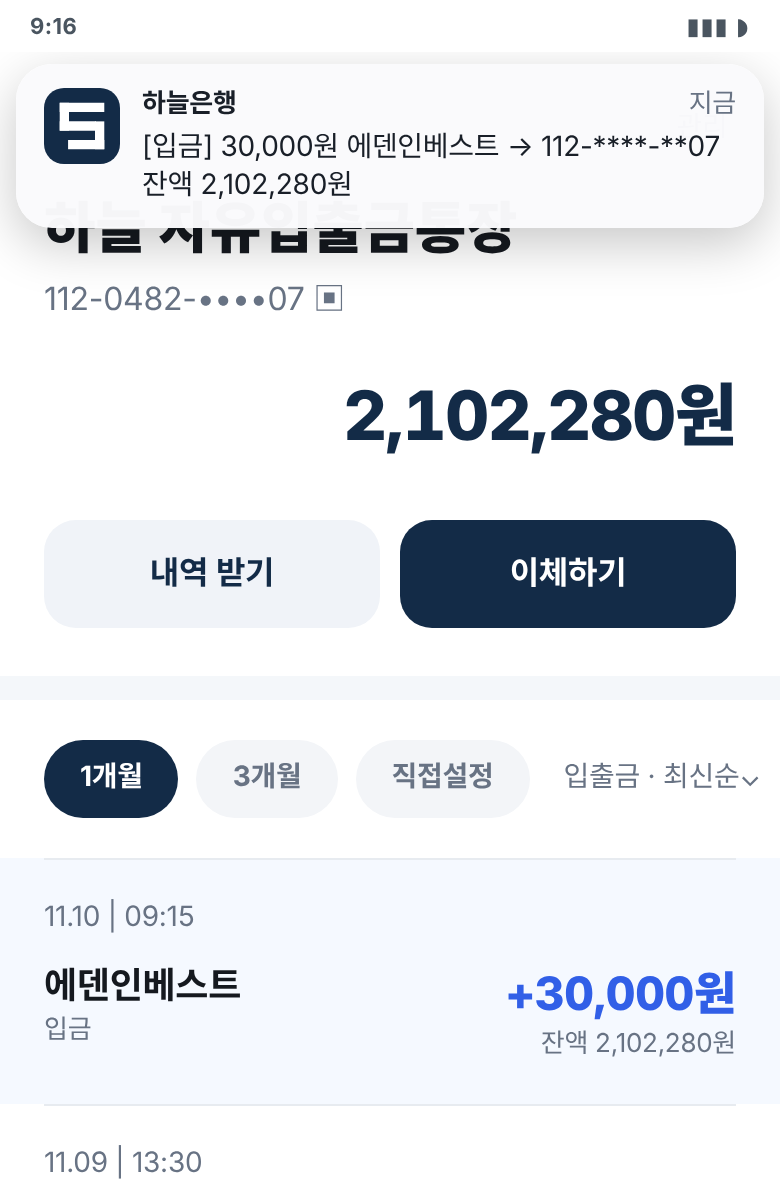
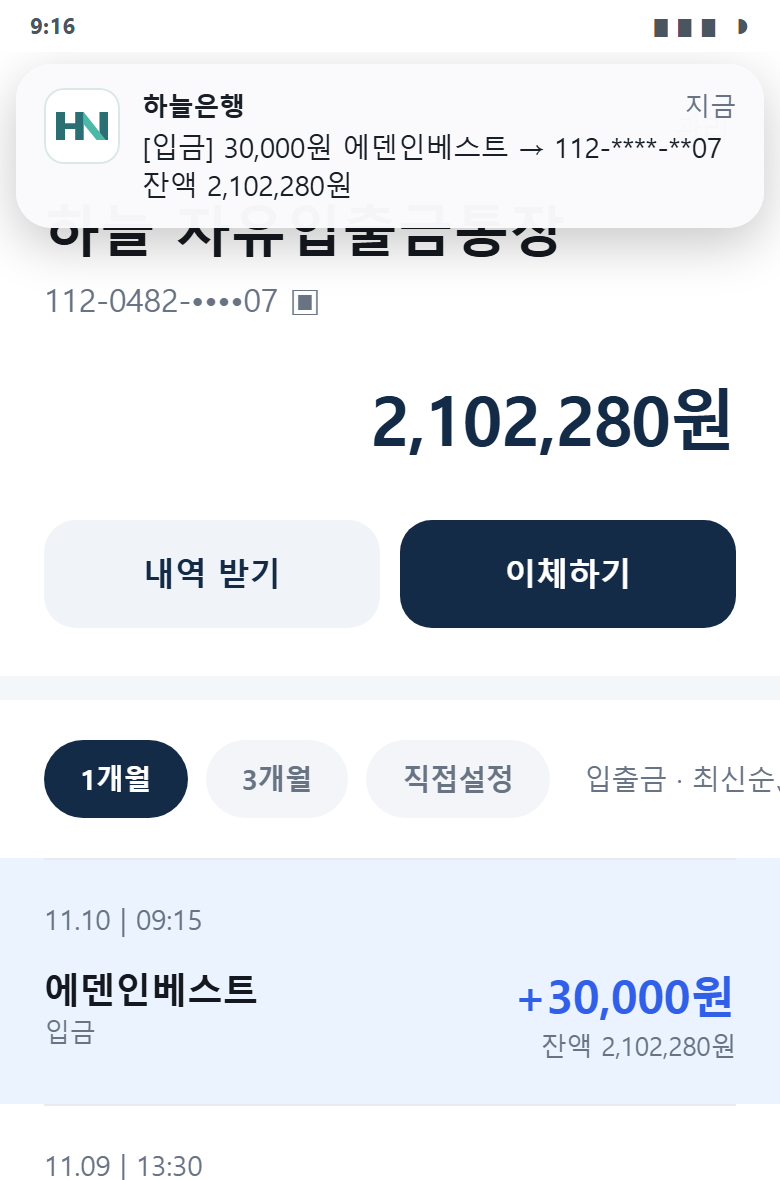
Apply art department Haneul Bank mark to web preview

diff --git a/apps/preview/bank.css b/apps/preview/bank.css
@@ -5,7 +5,8 @@
 .bk.pale{background:var(--pale)}
 .bk.white{background:#fff}
 .bk-home-top{display:flex;align-items:center;margin-top:16px}
-.bk-home-top h1{flex:1;margin:0;font-size:28px;font-weight:800;letter-spacing:-.02em;color:var(--ink)}
+.bk-home-top h1{flex:1;margin:0;display:flex;align-items:center;gap:8px;font-size:28px;font-weight:800;letter-spacing:-.02em;color:var(--ink)}
+.bk-home-top .bk-logo{width:40px;height:36px;border-radius:11px}
 .bk-pill{background:#DCE7F5;border-radius:24px;padding:8px 14px;color:var(--sub);font-weight:700;font-size:14px}
 .bk-bell{width:38px;height:38px;margin-left:10px;position:relative;display:flex;align-items:center;justify-content:center;font-size:26px;color:var(--navy)}
 .bk-bell i{position:absolute;top:2px;right:2px;width:9px;height:9px;border-radius:9px;background:#FF5364}
@@ -32,7 +33,9 @@
 .bk-asset .h span{color:var(--sub)}
 .bk-asset .k{color:var(--sub);font-size:14px;margin:25px 0 8px}
 .bk-asset .r{display:flex;align-items:center;gap:13px}
-.bk-logo{width:42px;height:42px;border-radius:14px;background:var(--navy);display:flex;align-items:center;justify-content:center;flex:0 0 auto}
+.bk-logo,.bk-push .lg,.bk-lock .nt .lg{background:#fff;box-shadow:inset 0 0 0 1px #dce8e8;display:grid;place-items:center;flex:0 0 auto}
+.bk-logo{width:42px;height:42px;border-radius:14px}
+.bk-brand-mark{display:block;width:68%;height:auto}
 .bk-asset .r div b{display:block}
 .bk-asset .r div span{color:var(--sub);font-size:13px}
 .bk-asset .r>b{margin-left:auto}
@@ -84,7 +87,7 @@
 .bk-hot.show{background:rgba(255,0,80,.25);outline:2px dashed #f05}
 .bk-push{position:absolute;left:8px;right:8px;top:6px;z-index:30;background:rgba(250,250,252,.98);border-radius:18px;box-shadow:0 8px 26px rgba(0,0,0,.22);padding:12px 14px;display:flex;gap:11px;transform:translateY(-150%);transition:transform .45s cubic-bezier(.2,.9,.3,1.1)}
 .bk-push.on{transform:translateY(0)}
-.bk-push .lg{width:38px;height:38px;border-radius:10px;background:var(--navy);display:flex;align-items:center;justify-content:center;flex:0 0 auto}
+.bk-push .lg{width:38px;height:38px;border-radius:10px}
 .bk-push .h{display:flex;font-size:13px;color:var(--sub)}
 .bk-push .h b{flex:1;color:#191F28}
 .bk-push p{margin:2px 0 0;font-size:14px;line-height:1.36;color:#191F28}
@@ -101,7 +104,7 @@
 .bk-lock .clk{font-size:76px;font-weight:300;margin-top:70px;letter-spacing:-.02em}
 .bk-lock .dt{font-size:16px;opacity:.85}
 .bk-lock .nt{margin-top:40px;width:calc(100% - 28px);background:rgba(255,255,255,.92);color:#191F28;border-radius:20px;padding:13px 14px;display:flex;gap:11px}
-.bk-lock .nt .lg{width:34px;height:34px;border-radius:50%;background:var(--blue);display:flex;align-items:center;justify-content:center;flex:0 0 auto}
+.bk-lock .nt .lg{width:34px;height:34px;border-radius:50%}
 .bk-lock .nt .h{display:flex;font-size:12.5px;color:#55606e}
 .bk-lock .nt .h b{flex:1;color:#191F28}
 .bk-lock .nt p{margin:3px 0 0;font-size:14px;line-height:1.38}

diff --git a/apps/preview/bank.js b/apps/preview/bank.js
@@ -5,7 +5,7 @@
   const esc = PV.esc, won = n => Math.abs(n).toLocaleString('ko-KR');
   const st = { pid: 'eunju', fired: false, screen: 'home', sel: null, picker: false, lock: false, push: false, toast: '', flash: false, hot: false };
   const P = () => PROFILES.find(p => p.id === st.pid);
-  const LOGO = '<svg width="26" height="26" viewBox="0 0 56 56"><g transform="translate(-26 -26)" fill="#fff"><path d="M30,29h48v10h-48z"/><path d="M30,49h39v10h-39z"/><path d="M39,69h39v10h-39z"/><path d="M30,29h10v30h-10z"/><path d="M68,49h10v30h-10z"/></g></svg>';
+  const LOGO = '<img class="bk-brand-mark" src="haneul-bank-mark.svg" alt="">';
 
   function computed() {
     const p = P();
@@ -20,7 +20,7 @@
   function home() {
     const p = P();
     return `<div class="app bk pale"><div class="scroll">
-      <div class="bk-home-top"><h1 class="tap" id="homeTitle">홈</h1><span class="bk-pill tap" id="pill">● ${esc(p.user)}님</span><span class="bk-bell">♧<i></i></span></div>
+      <div class="bk-home-top"><h1 class="tap" id="homeTitle"><span class="bk-logo">${LOGO}</span>홈</h1><span class="bk-pill tap" id="pill">● ${esc(p.user)}님</span><span class="bk-bell">♧<i></i></span></div>
       <div class="bk-promo"><div class="bk-sym big">S</div><div style="flex:1;margin-left:16px"><b>일상에 여유를 더하는 금융</b><span>하늘 라이프 혜택 확인하기</span></div><span style="color:#687384;font-size:24px">×</span></div>
       <div class="bk-card bk-acct tap" data-go="list"><div class="t"><b>${esc(p.acctName)}</b><span>${esc(p.acctNo)}</span><em>⋮</em></div>
         <div class="bk-bal">${won(balance())}원</div>
@@ -73,7 +73,7 @@
     if (st.lock) {
       const lt = P().live.t;
       h += `<div class="bk-lock tap" id="lock"><div class="clk">${lt}</div><div class="dt">11월 10일 월요일</div>
-        ${st.fired ? `<div class="nt"><div class="lg">${LOGO.replace('26', '20').replace('26', '20')}</div><div style="flex:1"><div class="h"><b>하늘은행</b><span>지금</span></div><p>${esc(pushText())}</p></div></div>` : ''}
+        ${st.fired ? `<div class="nt"><div class="lg">${LOGO}</div><div style="flex:1"><div class="h"><b>하늘은행</b><span>지금</span></div><p>${esc(pushText())}</p></div></div>` : ''}
         <div class="hint">${st.fired ? '알림을 누르면 앱으로 돌아가요' : '화면 꺼짐 · 잠시 뒤 알림이 와요'}</div></div>`;
     }
     if (st.picker) h += `<div class="bk-dim" id="dim"><div class="bk-dialog"><h3>계좌 선택</h3>${PROFILES.map(x => `<div class="p tap${x.id === st.pid ? ' on' : ''}" data-pick="${x.id}">${esc(x.label)}${x.id === st.pid ? '<i>✓</i>' : ''}</div>`).join('')}<div class="x tap" id="pickClose">닫기</div></div></div>`;

diff --git a/apps/preview/bank.html b/apps/preview/bank.html
@@ -1,4 +1,4 @@
-<!doctype html><html lang="ko"><head><meta charset="utf-8"><meta name="viewport" content="width=device-width,initial-scale=1"><title>하늘은행 v2 · 피라밋 촬영용 은행 앱 미리보기</title><link rel="stylesheet" href="phone.css"><link rel="stylesheet" href="bank.css?v=2"><!-- DW-SITE --><meta name="robots" content="noindex,nofollow,noarchive"><script>if("serviceWorker"in navigator)addEventListener("load",function(){navigator.serviceWorker.register("/sw.js").catch(function(){})});</script>
+<!doctype html><html lang="ko"><head><meta charset="utf-8"><meta name="viewport" content="width=device-width,initial-scale=1"><title>하늘은행 v2 · 피라밋 촬영용 은행 앱 미리보기</title><link rel="stylesheet" href="phone.css"><link rel="stylesheet" href="bank.css?v=hn1"><!-- DW-SITE --><meta name="robots" content="noindex,nofollow,noarchive"><script>if("serviceWorker"in navigator)addEventListener("load",function(){navigator.serviceWorker.register("/sw.js").catch(function(){})});</script>
 <!-- DW-STAT --><script src="/dw-stat.js" defer></script></head>
 <body><header class="pv-top"><a class="pv-back" href="../showcase/index.html#bank-1">← 촬영용 앱 화면</a><div class="pv-title">하늘은행 <span>v2 · 인물 계좌 · 잠금화면 알림</span></div><div class="pv-links"><a href="../showcase/index.html#bank-1">화면 캡처 보기</a><a class="solid" href="../haneul-bank-v2.apk" download>APK 내려받기</a></div></header>
 <main class="pv-main"><div><div class="pv-stage"><div class="phone"><div class="phone-shell"><div class="phone-screen"><div class="sbar light"><span>9:16</span><em>▮▮▮ ◗</em></div><div class="app" id="app"></div></div></div></div></div><p class="pv-cap"></p></div>
@@ -7,4 +7,4 @@
 <p class="pv-note">폰 화면을 직접 눌러 보세요. <b>이름표 5번 탭</b> = 계좌 선택 · <b>'홈' 길게</b> = 설정 · <b>오른쪽 아래 구석 탭</b> = 숨은 거래 들어옴 · <b>길게</b> = 되돌리기.</p>
 <p class="pv-note">실제 APK에서는 숨은 버튼을 누르고 전원 버튼으로 화면을 끄면 정한 초 뒤 <b>진짜 잠금화면 알림</b>이 와요. 여기서는 '화면 꺼짐 알림 체험'으로 3초 뒤에 보여줘요.</p>
 <p class="pv-note">웹 체험의 내용은 저장되지 않아요. 거래 추가·수정은 APK의 설정 화면에서 하세요.</p></aside></main>
-<script src="phone.js"></script><script src="bank.js?v=2"></script></body></html>
+<script src="phone.js"></script><script src="bank.js?v=hn1"></script></body></html>

diff --git a/apps/showcase/index.html b/apps/showcase/index.html
@@ -183,7 +183,10 @@ const $ = id => document.getElementById(id);
 $('tabs').innerHTML = APPS.map(a => '<button data-app="' + a.id + '">' + esc(a.name) + '</button>').join('');
 $('tabs').querySelectorAll('button').forEach(b => b.addEventListener('click', () => select(b.dataset.app, 0)));
 
-function shotSrc(i) { return 'shots/' + app.id + '/' + app.shots[i][0] + '.png' + (app.id === 'rider' ? '?v=16' : app.id === 'mail' ? '?v=8' : ''); }
+function shotSrc(i) {
+  const version = { rider: '16', mail: '8', bank: 'hn1' }[app.id];
+  return 'shots/' + app.id + '/' + app.shots[i][0] + '.png' + (version ? '?v=' + version : '');
+}
 
 function paint() {
   const s = app.shots[index];
